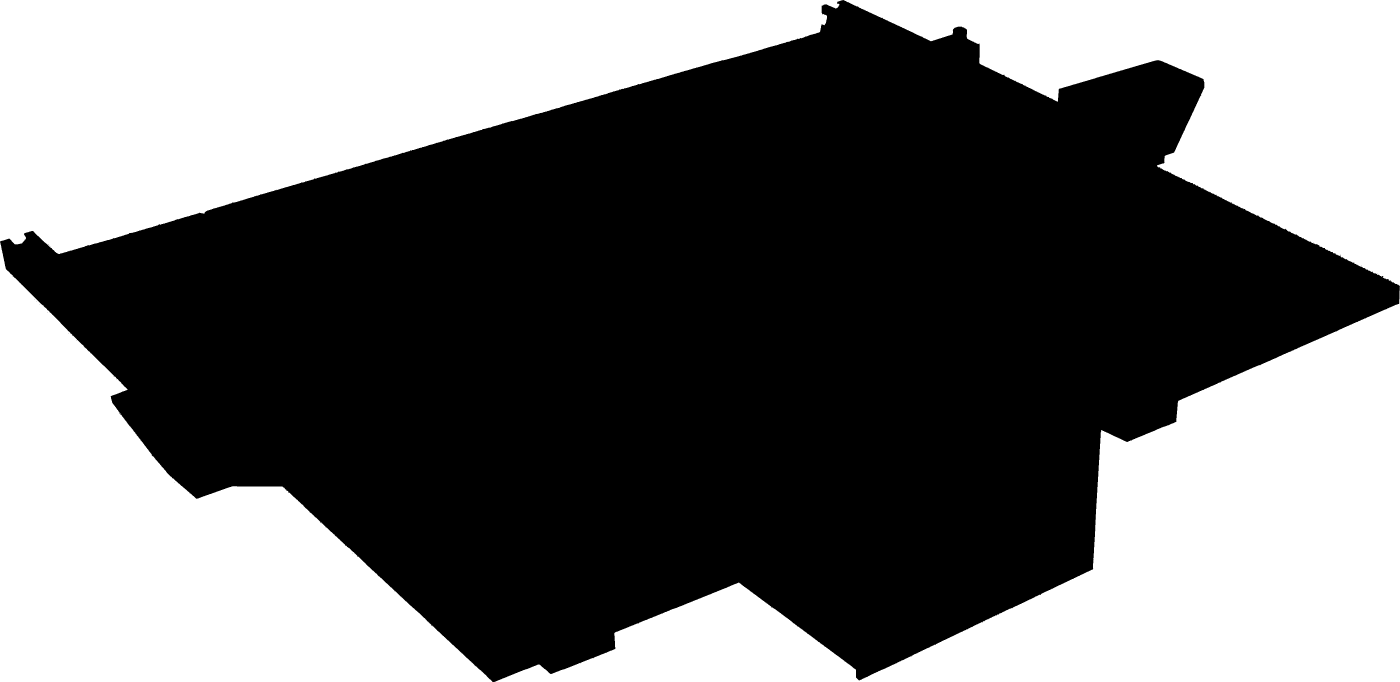
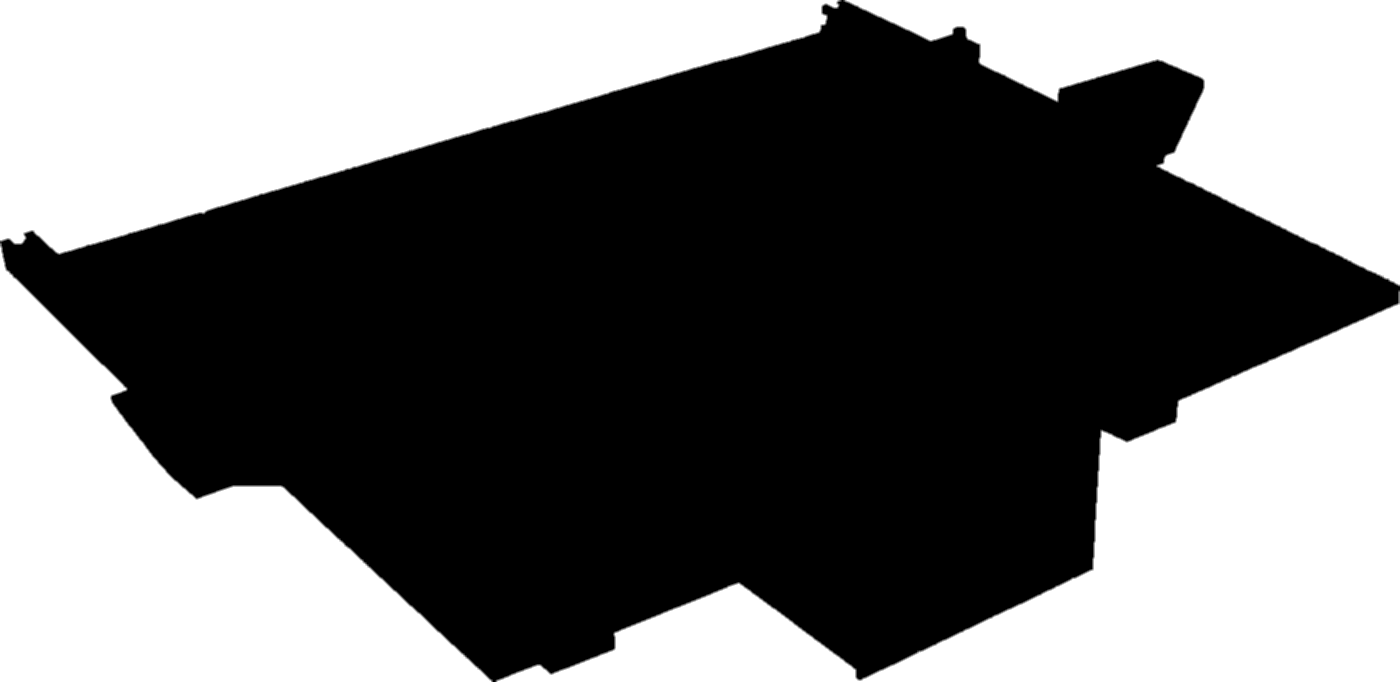
Corrige o fundo do estúdio vazando na peça de Comunicação Visual
A máscara da peça do hero usava `mask-size: 100% 100%` enquanto a imagem
usa `object-fit: contain`. Quando o teto de largura da peça tira a caixa
da proporção do arquivo (a dobradeira, 1400×682, numa caixa 806×720),
imagem e máscara desalinhavam e o fundo marrom aparecia. No fundo marrom
antigo do site isso passava despercebido; no marinho fica gritante.

- máscara alinhada à imagem: `mask-size: contain` + `mask-position: center`
- máscara da dobradeira refeita: o polígono antigo deixava passar o fundo;
  a nova remove o marrom ligado à borda e preserva a fita do produto

diff --git a/src/styles/_ds-surfaces.scss b/src/styles/_ds-surfaces.scss
@@ -438,8 +438,15 @@
   object-fit: contain;
   -webkit-mask-image: var(--peca-mascara);
   mask-image: var(--peca-mascara);
-  -webkit-mask-size: 100% 100%;
-  mask-size: 100% 100%;
+  /* `contain` + centro, a MESMA geometria do `object-fit: contain` da imagem.
+     Com `100% 100%` a máscara esticava na caixa inteira enquanto a foto ficava
+     centrada com folga: quando o teto de largura (--peca-largura-max) corta a
+     largura, a caixa perde a proporção do arquivo, imagem e máscara desalinham e
+     o fundo do estúdio vaza (apareceu na dobradeira, 1400×682 numa caixa 806×720). */
+  -webkit-mask-size: contain;
+  mask-size: contain;
+  -webkit-mask-position: center;
+  mask-position: center;
   -webkit-mask-repeat: no-repeat;
   mask-repeat: no-repeat;
 }
@@ -478,8 +485,10 @@
   overflow: hidden;
   -webkit-mask-image: var(--peca-mascara);
   mask-image: var(--peca-mascara);
-  -webkit-mask-size: 100% 100%;
-  mask-size: 100% 100%;
+  -webkit-mask-size: contain;
+  mask-size: contain;
+  -webkit-mask-position: center;
+  mask-position: center;
   -webkit-mask-repeat: no-repeat;
   mask-repeat: no-repeat;
 }
